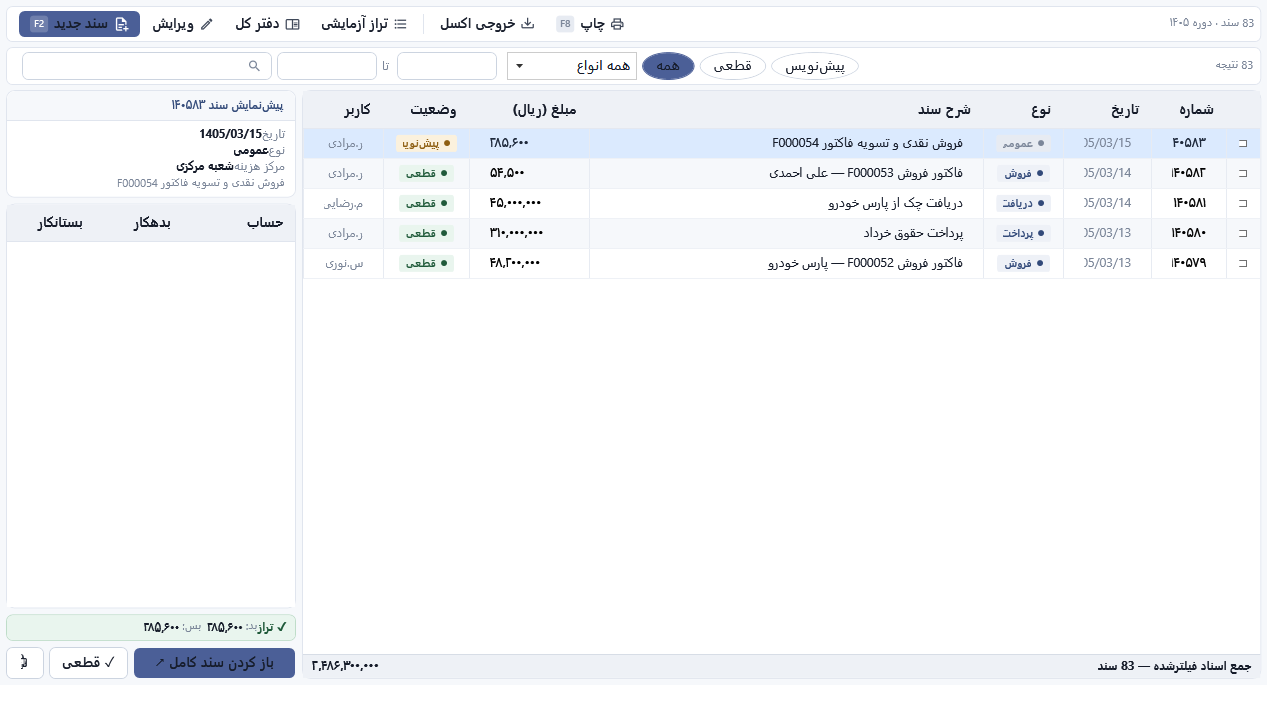
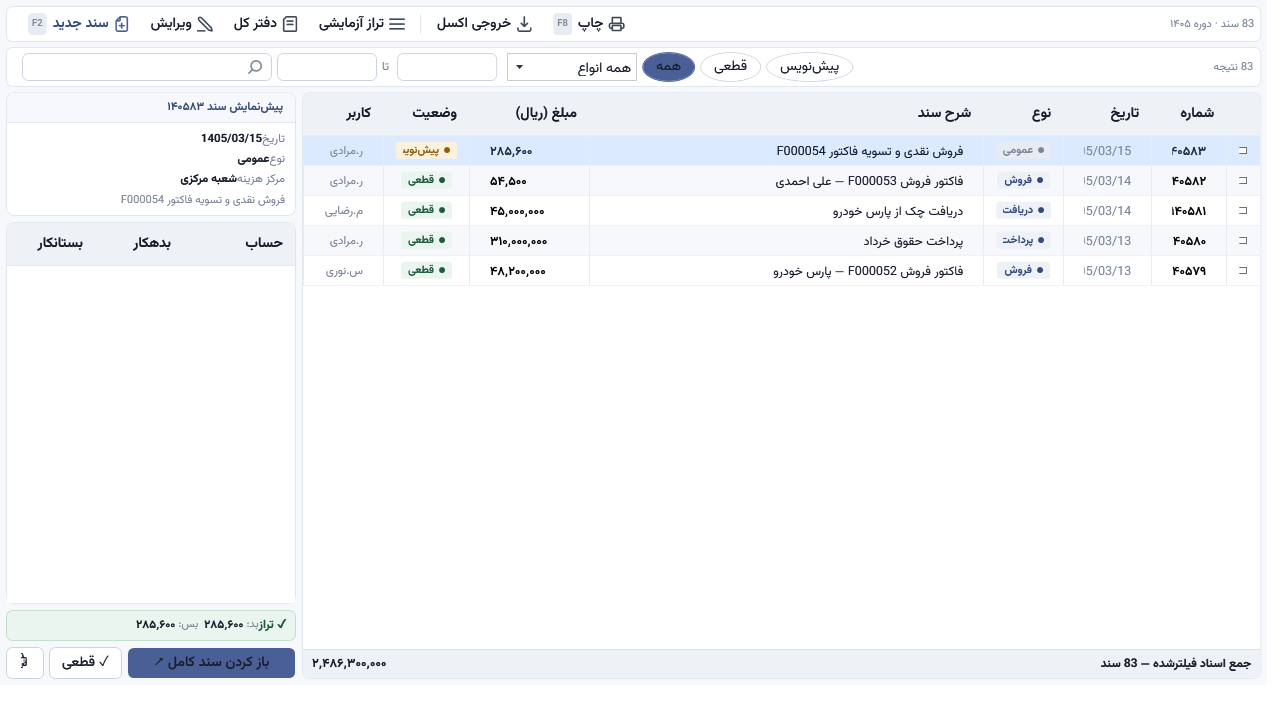
feat(ui): T2 — مهاجرتِ آیکونِ تولبارهای حسابداری/خزانه/گزارش از PackIcon به SVG (pc/C1)
۵ ویو (ثبت سند/اسناد/چک/نمودار حساب/گزارشهای مالی) + ۸ آیکونِ جدید در DesignIcons (Check/Copy/Swap/Close/Transfer/Undo/Template/Trash). رندر تأیید شد.

diff --git a/src/SamaHesab.WPF/Views/Accounting/VoucherEditView.xaml b/src/SamaHesab.WPF/Views/Accounting/VoucherEditView.xaml
@@ -103,23 +103,23 @@
         <Border Grid.Row="0" Background="White" BorderBrush="{StaticResource Line}" BorderThickness="0,0,0,1" Padding="8,6">
             <StackPanel Orientation="Horizontal">
                 <Button Style="{StaticResource TBtn}" Command="{Binding NewCommand}" Background="{StaticResource Blue600}" Foreground="White" BorderBrush="{StaticResource Blue600}">
-                    <StackPanel Orientation="Horizontal"><materialDesign:PackIcon Kind="FileDocumentPlusOutline" Width="15" Height="15" VerticalAlignment="Center" Margin="0,0,5,0"/><TextBlock Text="جدید"/><Border Style="{StaticResource Fk}" Background="#5E6FA8"><TextBlock Text="F2" FontSize="10.5" Foreground="White"/></Border></StackPanel>
+                    <StackPanel Orientation="Horizontal"><Path Data="{StaticResource IcFilePlus}" Style="{StaticResource ErpToolSvg}" Stroke="White" Margin="0,0,5,0"/><TextBlock Text="جدید"/><Border Style="{StaticResource Fk}" Background="#5E6FA8"><TextBlock Text="F2" FontSize="10.5" Foreground="White"/></Border></StackPanel>
                 </Button>
                 <Button Style="{StaticResource TBtn}" Command="{Binding SaveCommand}">
-                    <StackPanel Orientation="Horizontal"><materialDesign:PackIcon Kind="ContentSaveOutline" Width="15" Height="15" VerticalAlignment="Center" Margin="0,0,5,0"/><TextBlock Text="ذخیره"/><Border Style="{StaticResource Fk}"><TextBlock Text="F7" FontSize="10.5" Foreground="{StaticResource TextMuted}"/></Border></StackPanel>
+                    <StackPanel Orientation="Horizontal"><Path Data="{StaticResource IcSave}" Style="{StaticResource ErpToolSvg}" Margin="0,0,5,0"/><TextBlock Text="ذخیره"/><Border Style="{StaticResource Fk}"><TextBlock Text="F7" FontSize="10.5" Foreground="{StaticResource TextMuted}"/></Border></StackPanel>
                 </Button>
                 <Button Style="{StaticResource TBtn}" Command="{Binding PostCommand}" Background="#E8F5EC" BorderBrush="#A7D7B6"
                         IsEnabled="{Binding IsBalanced}" ToolTip="سند باید تراز باشد تا قطعی شود">
-                    <StackPanel Orientation="Horizontal"><materialDesign:PackIcon Kind="CheckCircleOutline" Width="15" Height="15" VerticalAlignment="Center" Margin="0,0,5,0" Foreground="#15803D"/><TextBlock Text="قطعیسازی" Foreground="#15803D"/><Border Style="{StaticResource Fk}" Background="#C9E9D2"><TextBlock Text="F9" FontSize="10.5" Foreground="#15803D"/></Border></StackPanel>
+                    <StackPanel Orientation="Horizontal"><Path Data="{StaticResource IcCheck}" Style="{StaticResource ErpToolSvg}" Stroke="#15803D" Margin="0,0,5,0"/><TextBlock Text="قطعیسازی" Foreground="#15803D"/><Border Style="{StaticResource Fk}" Background="#C9E9D2"><TextBlock Text="F9" FontSize="10.5" Foreground="#15803D"/></Border></StackPanel>
                 </Button>
                 <Border Width="1" Background="{StaticResource Line}" Margin="4,2"/>
-                <Button Style="{StaticResource TBtn}" Command="{Binding CopyCommand}"><StackPanel Orientation="Horizontal"><materialDesign:PackIcon Kind="ContentCopy" Width="15" Height="15" VerticalAlignment="Center" Margin="0,0,5,0"/><TextBlock Text="کپی سند"/></StackPanel></Button>
-                <Button Style="{StaticResource TBtn}" Command="{Binding ReverseCommand}"><StackPanel Orientation="Horizontal"><materialDesign:PackIcon Kind="SwapHorizontal" Width="15" Height="15" VerticalAlignment="Center" Margin="0,0,5,0"/><TextBlock Text="سند معکوس"/></StackPanel></Button>
-                <Button Style="{StaticResource TBtn}" Command="{Binding TemplatesCommand}" ToolTip="الگوها و اسنادِ تکرارشونده"><StackPanel Orientation="Horizontal"><materialDesign:PackIcon Kind="FileMultipleOutline" Width="15" Height="15" VerticalAlignment="Center" Margin="0,0,5,0"/><TextBlock Text="الگو / تکراری"/></StackPanel></Button>
+                <Button Style="{StaticResource TBtn}" Command="{Binding CopyCommand}"><StackPanel Orientation="Horizontal"><Path Data="{StaticResource IcCopy}" Style="{StaticResource ErpToolSvg}" Margin="0,0,5,0"/><TextBlock Text="کپی سند"/></StackPanel></Button>
+                <Button Style="{StaticResource TBtn}" Command="{Binding ReverseCommand}"><StackPanel Orientation="Horizontal"><Path Data="{StaticResource IcSwap}" Style="{StaticResource ErpToolSvg}" Margin="0,0,5,0"/><TextBlock Text="سند معکوس"/></StackPanel></Button>
+                <Button Style="{StaticResource TBtn}" Command="{Binding TemplatesCommand}" ToolTip="الگوها و اسنادِ تکرارشونده"><StackPanel Orientation="Horizontal"><Path Data="{StaticResource IcTemplate}" Style="{StaticResource ErpToolSvg}" Margin="0,0,5,0"/><TextBlock Text="الگو / تکراری"/></StackPanel></Button>
                 <Button Style="{StaticResource TBtn}" Command="{Binding PrintCommand}">
-                    <StackPanel Orientation="Horizontal"><materialDesign:PackIcon Kind="PrinterOutline" Width="15" Height="15" VerticalAlignment="Center" Margin="0,0,5,0"/><TextBlock Text="چاپ"/><Border Style="{StaticResource Fk}"><TextBlock Text="F8" FontSize="10.5" Foreground="{StaticResource TextMuted}"/></Border></StackPanel>
+                    <StackPanel Orientation="Horizontal"><Path Data="{StaticResource IcPrinter}" Style="{StaticResource ErpToolSvg}" Margin="0,0,5,0"/><TextBlock Text="چاپ"/><Border Style="{StaticResource Fk}"><TextBlock Text="F8" FontSize="10.5" Foreground="{StaticResource TextMuted}"/></Border></StackPanel>
                 </Button>
-                <Button Style="{StaticResource TBtn}" Command="{Binding CancelCommand}" Foreground="#B91C1C" BorderBrush="#E6BcBc"><StackPanel Orientation="Horizontal"><materialDesign:PackIcon Kind="CloseCircleOutline" Width="15" Height="15" VerticalAlignment="Center" Margin="0,0,5,0"/><TextBlock Text="انصراف"/></StackPanel></Button>
+                <Button Style="{StaticResource TBtn}" Command="{Binding CancelCommand}" Foreground="#B91C1C" BorderBrush="#E6BcBc"><StackPanel Orientation="Horizontal"><Path Data="{StaticResource IcClose}" Style="{StaticResource ErpToolSvg}" Stroke="#B91C1C" Margin="0,0,5,0"/><TextBlock Text="انصراف"/></StackPanel></Button>
             </StackPanel>
         </Border>
 

diff --git a/src/SamaHesab.WPF/Views/Accounting/VoucherListView.xaml b/src/SamaHesab.WPF/Views/Accounting/VoucherListView.xaml
@@ -56,26 +56,26 @@
                 <!-- سند جدید (primary) — طبق طرح: دکمهٔ ghostِ تولبار با متن/آیکونِ آبی (نه آبیِ پُر) -->
                 <Button DockPanel.Dock="Right" Style="{StaticResource TBtn}" Margin="0,0,5,0" Command="{Binding NewVoucherCommand}">
                     <StackPanel Orientation="Horizontal">
-                        <materialDesign:PackIcon Kind="FileDocumentPlusOutline" Width="16" Height="16" VerticalAlignment="Center" Foreground="{StaticResource ErpBlue600}"/>
+                        <Path Data="{StaticResource IcFilePlus}" Style="{StaticResource ErpToolSvg}" Stroke="{StaticResource ErpBlue600}"/>
                         <TextBlock Text="سند جدید" VerticalAlignment="Center" Margin="5,0,0,0" FontWeight="SemiBold" Foreground="{StaticResource ErpBlue700}"/>
                         <Border CornerRadius="4" Background="{StaticResource ErpGray150}" Padding="4,0" Margin="6,0,0,0"><TextBlock Text="F2" FontSize="9.5" Foreground="{StaticResource ErpTextMuted}" VerticalAlignment="Center"/></Border>
                     </StackPanel>
                 </Button>
                 <Button DockPanel.Dock="Right" Style="{StaticResource TBtn}" Command="{Binding EditVoucherCommand}">
-                    <StackPanel Orientation="Horizontal"><materialDesign:PackIcon Kind="PencilOutline" Width="15" Height="15" VerticalAlignment="Center"/><TextBlock Text="ویرایش" VerticalAlignment="Center" Margin="5,0,0,0"/></StackPanel>
+                    <StackPanel Orientation="Horizontal"><Path Data="{StaticResource IcPencil}" Style="{StaticResource ErpToolSvg}"/><TextBlock Text="ویرایش" VerticalAlignment="Center" Margin="5,0,0,0"/></StackPanel>
                 </Button>
                 <Button DockPanel.Dock="Right" Style="{StaticResource TBtn}" Command="{Binding LedgerCommand}">
-                    <StackPanel Orientation="Horizontal"><materialDesign:PackIcon Kind="BookOpenOutline" Width="15" Height="15" VerticalAlignment="Center"/><TextBlock Text="دفتر کل" VerticalAlignment="Center" Margin="5,0,0,0"/></StackPanel>
+                    <StackPanel Orientation="Horizontal"><Path Data="{StaticResource IcBook}" Style="{StaticResource ErpToolSvg}"/><TextBlock Text="دفتر کل" VerticalAlignment="Center" Margin="5,0,0,0"/></StackPanel>
                 </Button>
                 <Button DockPanel.Dock="Right" Style="{StaticResource TBtn}" Command="{Binding TrialBalanceCommand}">
-                    <StackPanel Orientation="Horizontal"><materialDesign:PackIcon Kind="FormatListBulleted" Width="15" Height="15" VerticalAlignment="Center"/><TextBlock Text="تراز آزمایشی" VerticalAlignment="Center" Margin="5,0,0,0"/></StackPanel>
+                    <StackPanel Orientation="Horizontal"><Path Data="{StaticResource IcLines}" Style="{StaticResource ErpToolSvg}"/><TextBlock Text="تراز آزمایشی" VerticalAlignment="Center" Margin="5,0,0,0"/></StackPanel>
                 </Button>
                 <Rectangle DockPanel.Dock="Right" Width="1" Fill="{StaticResource ErpBorder}" Margin="5,4"/>
                 <Button DockPanel.Dock="Right" Style="{StaticResource TBtn}" Command="{Binding ExportCommand}">
-                    <StackPanel Orientation="Horizontal"><materialDesign:PackIcon Kind="TrayArrowDown" Width="15" Height="15" VerticalAlignment="Center"/><TextBlock Text="خروجی اکسل" VerticalAlignment="Center" Margin="5,0,0,0"/></StackPanel>
+                    <StackPanel Orientation="Horizontal"><Path Data="{StaticResource IcDownload}" Style="{StaticResource ErpToolSvg}"/><TextBlock Text="خروجی اکسل" VerticalAlignment="Center" Margin="5,0,0,0"/></StackPanel>
                 </Button>
                 <Button DockPanel.Dock="Right" Style="{StaticResource TBtn}" Command="{Binding PrintVoucherCommand}">
-                    <StackPanel Orientation="Horizontal"><materialDesign:PackIcon Kind="PrinterOutline" Width="15" Height="15" VerticalAlignment="Center"/><TextBlock Text="چاپ" VerticalAlignment="Center" Margin="5,0,0,0"/><Border CornerRadius="3" Background="{StaticResource ErpGray150}" Padding="4,0" Margin="6,0,0,0"><TextBlock Text="F8" FontSize="9.5" Foreground="{StaticResource ErpTextMuted}" VerticalAlignment="Center"/></Border></StackPanel>
+                    <StackPanel Orientation="Horizontal"><Path Data="{StaticResource IcPrinter}" Style="{StaticResource ErpToolSvg}"/><TextBlock Text="چاپ" VerticalAlignment="Center" Margin="5,0,0,0"/><Border CornerRadius="3" Background="{StaticResource ErpGray150}" Padding="4,0" Margin="6,0,0,0"><TextBlock Text="F8" FontSize="9.5" Foreground="{StaticResource ErpTextMuted}" VerticalAlignment="Center"/></Border></StackPanel>
                 </Button>
                 <TextBlock DockPanel.Dock="Left" HorizontalAlignment="Left" VerticalAlignment="Center" Foreground="{StaticResource ErpTextMuted}" FontSize="11"
                            Text="{Binding TotalCount, StringFormat='{}{0} سند · دوره ۱۴۰۵'}"/>
@@ -90,7 +90,7 @@
                         CornerRadius="6" Height="28" Width="250" Margin="0,0,8,0">
                     <Grid>
                         <Grid.ColumnDefinitions><ColumnDefinition Width="Auto"/><ColumnDefinition Width="*"/></Grid.ColumnDefinitions>
-                        <materialDesign:PackIcon Grid.Column="0" Kind="Magnify" Width="15" Height="15" Margin="9,0,0,0" VerticalAlignment="Center" Foreground="{StaticResource ErpTextMuted}"/>
+                        <Path Grid.Column="0" Data="{StaticResource IcSearch}" Style="{StaticResource ErpToolSvg}" Stroke="{StaticResource ErpTextMuted}" Width="14" Height="14" Margin="9,0,0,0"/>
                         <TextBox Grid.Column="1" Text="{Binding SearchText}" Background="Transparent" BorderThickness="0" VerticalContentAlignment="Center" Padding="6,0"
                                  materialDesign:HintAssist.Hint="جستجوی شماره، شرح، مبلغ…" FontSize="12.5">
                             <TextBox.InputBindings><KeyBinding Key="Return" Command="{Binding SearchCommand}"/></TextBox.InputBindings>

diff --git a/src/SamaHesab.WPF/Views/Accounting/ChequeListView.xaml b/src/SamaHesab.WPF/Views/Accounting/ChequeListView.xaml
@@ -125,17 +125,17 @@
             <DockPanel>
                 <StackPanel Orientation="Horizontal">
                     <Button Style="{StaticResource TBtn}" Command="{Binding NewChequeCommand}" Background="{StaticResource Blue600}" Foreground="White" BorderBrush="{StaticResource Blue600}">
-                        <StackPanel Orientation="Horizontal"><materialDesign:PackIcon Kind="PlusBoxOutline" Width="16" Height="16" VerticalAlignment="Center"/><TextBlock Text="چک جدید" Margin="5,0,0,0"/><Border Background="#5E6FA8" CornerRadius="3" Padding="4,0" Margin="6,0,0,0"><TextBlock Text="F2" FontSize="10.5" Foreground="White"/></Border></StackPanel>
+                        <StackPanel Orientation="Horizontal"><Path Data="{StaticResource IcFilePlus}" Style="{StaticResource ErpToolSvg}" Stroke="White"/><TextBlock Text="چک جدید" Margin="5,0,0,0"/><Border Background="#5E6FA8" CornerRadius="3" Padding="4,0" Margin="6,0,0,0"><TextBlock Text="F2" FontSize="10.5" Foreground="White"/></Border></StackPanel>
                     </Button>
                     <Border Width="1" Background="{StaticResource Line}" Margin="4,2"/>
                     <Button Style="{StaticResource TBtn}" Command="{Binding ClearChequeCommand}" Background="#E8F5EC" BorderBrush="#A7D7B6">
-                        <StackPanel Orientation="Horizontal"><materialDesign:PackIcon Kind="CheckCircleOutline" Width="16" Height="16" VerticalAlignment="Center" Foreground="#15803D"/><TextBlock Text="وصول" Margin="5,0,0,0" Foreground="#15803D"/></StackPanel>
+                        <StackPanel Orientation="Horizontal"><Path Data="{StaticResource IcCheck}" Style="{StaticResource ErpToolSvg}" Stroke="#15803D"/><TextBlock Text="وصول" Margin="5,0,0,0" Foreground="#15803D"/></StackPanel>
                     </Button>
                     <Button Style="{StaticResource TBtn}" Command="{Binding TransferChequeCommand}">
-                        <StackPanel Orientation="Horizontal"><materialDesign:PackIcon Kind="BankTransferOut" Width="16" Height="16" VerticalAlignment="Center"/><TextBlock Text="واگذاری به بانک" Margin="5,0,0,0"/></StackPanel>
+                        <StackPanel Orientation="Horizontal"><Path Data="{StaticResource IcTransfer}" Style="{StaticResource ErpToolSvg}"/><TextBlock Text="واگذاری به بانک" Margin="5,0,0,0"/></StackPanel>
                     </Button>
                     <Button Style="{StaticResource TBtn}" Command="{Binding ReturnChequeCommand}" Foreground="#B91C1C" BorderBrush="#E6BCBC">
-                        <StackPanel Orientation="Horizontal"><materialDesign:PackIcon Kind="CloseCircleOutline" Width="16" Height="16" VerticalAlignment="Center" Foreground="#B91C1C"/><TextBlock Text="برگشت چک" Margin="5,0,0,0"/></StackPanel>
+                        <StackPanel Orientation="Horizontal"><Path Data="{StaticResource IcUndo}" Style="{StaticResource ErpToolSvg}" Stroke="#B91C1C"/><TextBlock Text="برگشت چک" Margin="5,0,0,0"/></StackPanel>
                     </Button>
                 </StackPanel>
                 <!-- خلاصهٔ سررسیدِ هفتهٔ جاری -->
@@ -198,7 +198,7 @@
                     <RadioButton Style="{StaticResource TypeChip}" Content="پرداختنی" GroupName="ctype"
                                  Command="{Binding SelectTypeCommand}" CommandParameter="پرداختی"/>
                     <Border Width="1" Background="{StaticResource Line}" Margin="6,2"/>
-                    <materialDesign:PackIcon Kind="Magnify" Width="16" Height="16" VerticalAlignment="Center" Foreground="{StaticResource TextMuted}" Margin="0,0,4,0"/>
+                    <Path Data="{StaticResource IcSearch}" Style="{StaticResource ErpToolSvg}" Stroke="{StaticResource TextMuted}" Width="14" Height="14" Margin="0,0,4,0"/>
                     <TextBox Style="{StaticResource InputC}" Width="260" Text="{Binding SearchText, UpdateSourceTrigger=PropertyChanged}"
                              VerticalAlignment="Center"
                              materialDesign:HintAssist.Hint="جستجوی شماره چک / صادرکننده / بانک…"/>

diff --git a/src/SamaHesab.WPF/Views/Accounting/ChartOfAccountsView.xaml b/src/SamaHesab.WPF/Views/Accounting/ChartOfAccountsView.xaml
@@ -18,18 +18,18 @@
                 <Grid.ColumnDefinitions><ColumnDefinition Width="Auto"/><ColumnDefinition Width="*"/></Grid.ColumnDefinitions>
                 <StackPanel Grid.Column="0" Orientation="Horizontal" VerticalAlignment="Center">
                     <Button Style="{StaticResource ErpToolButton}" Command="{Binding AddAccountCommand}">
-                        <StackPanel><materialDesign:PackIcon Kind="PlusBoxOutline" Width="18" Height="18" HorizontalAlignment="Center" Foreground="{DynamicResource PrimaryAccent}"/><TextBlock Text="حساب جدید" TextAlignment="Center"/></StackPanel>
+                        <StackPanel><Path Data="{StaticResource IcFilePlus}" Style="{StaticResource ErpToolSvg}" Width="18" Height="18" HorizontalAlignment="Center" Stroke="{DynamicResource PrimaryAccent}"/><TextBlock Text="حساب جدید" TextAlignment="Center"/></StackPanel>
                     </Button>
                     <Button Style="{StaticResource ErpToolButton}" Command="{Binding EditAccountCommand}">
-                        <StackPanel><materialDesign:PackIcon Kind="PencilOutline" Width="18" Height="18" HorizontalAlignment="Center" Foreground="{DynamicResource WarningColor}"/><TextBlock Text="ویرایش" TextAlignment="Center"/></StackPanel>
+                        <StackPanel><Path Data="{StaticResource IcPencil}" Style="{StaticResource ErpToolSvg}" Width="18" Height="18" HorizontalAlignment="Center" Stroke="{DynamicResource WarningColor}"/><TextBlock Text="ویرایش" TextAlignment="Center"/></StackPanel>
                     </Button>
                     <Button Style="{StaticResource ErpToolButton}" Command="{Binding DeleteAccountCommand}">
-                        <StackPanel><materialDesign:PackIcon Kind="DeleteOutline" Width="18" Height="18" HorizontalAlignment="Center" Foreground="{DynamicResource DangerColor}"/><TextBlock Text="حذف" TextAlignment="Center"/></StackPanel>
+                        <StackPanel><Path Data="{StaticResource IcTrash}" Style="{StaticResource ErpToolSvg}" Width="18" Height="18" HorizontalAlignment="Center" Stroke="{DynamicResource DangerColor}"/><TextBlock Text="حذف" TextAlignment="Center"/></StackPanel>
                     </Button>
                     <Rectangle Width="1" Fill="{DynamicResource BorderColor}" Margin="6,6"/>
                 </StackPanel>
                 <StackPanel Grid.Column="1" Orientation="Horizontal" VerticalAlignment="Center" HorizontalAlignment="Right">
-                    <materialDesign:PackIcon Kind="Magnify" Width="18" Height="18" VerticalAlignment="Center" Foreground="{DynamicResource SecondaryText}"/>
+                    <Path Data="{StaticResource IcSearch}" Style="{StaticResource ErpToolSvg}" Stroke="{DynamicResource SecondaryText}"/>
                     <TextBox Text="{Binding SearchText, UpdateSourceTrigger=PropertyChanged}" Width="240" Margin="6,0" VerticalAlignment="Center"/>
                 </StackPanel>
             </Grid>

diff --git a/src/SamaHesab.WPF/Views/Reports/FinancialReportsView.xaml b/src/SamaHesab.WPF/Views/Reports/FinancialReportsView.xaml
@@ -15,7 +15,7 @@
         <!-- ═══ Toolbar / filters ═══ -->
         <Border Grid.Row="0" Style="{StaticResource ErpToolbar}">
             <StackPanel Orientation="Horizontal" VerticalAlignment="Center">
-                <materialDesign:PackIcon Kind="FileChartOutline" Width="20" Height="20" VerticalAlignment="Center" Foreground="{DynamicResource PrimaryAccent}"/>
+                <Path Data="{StaticResource IcReports}" Style="{StaticResource ErpToolSvg}" Width="20" Height="20" Stroke="{DynamicResource PrimaryAccent}"/>
                 <TextBlock Text="گزارش" Style="{StaticResource ErpInlineLabel}" Margin="6,0"/>
                 <ComboBox Style="{StaticResource BaseComboBox}" Width="170" Height="30"
                           ItemsSource="{Binding ReportTypes}" SelectedItem="{Binding SelectedReportType}"/>
@@ -50,18 +50,18 @@
                           SelectedValue="{Binding SelectedBranchId}"/>
                 <Button Style="{StaticResource PrimaryButton}" Height="30" Padding="16,0" Margin="12,0,0,0" Command="{Binding RunCommand}">
                     <StackPanel Orientation="Horizontal">
-                        <materialDesign:PackIcon Kind="Magnify" Width="16" Height="16" VerticalAlignment="Center"/>
+                        <Path Data="{StaticResource IcSearch}" Style="{StaticResource ErpToolSvg}"/>
                         <TextBlock Text="نمایش" Margin="5,0,0,0" VerticalAlignment="Center"/>
                     </StackPanel>
                 </Button>
                 <Button Style="{StaticResource SecondaryButton}" Height="30" Padding="12,0" Margin="6,0,0,0" Command="{Binding ExportCsvCommand}" ToolTip="خروجی اکسل (CSV)">
                     <StackPanel Orientation="Horizontal">
-                        <materialDesign:PackIcon Kind="FileExcelOutline" Width="16" Height="16" VerticalAlignment="Center"/>
+                        <Path Data="{StaticResource IcDownload}" Style="{StaticResource ErpToolSvg}"/>
                         <TextBlock Text="اکسل" Margin="5,0,0,0" VerticalAlignment="Center"/>
                     </StackPanel>
                 </Button>
                 <Button Style="{StaticResource SecondaryButton}" Height="30" Padding="12,0" Margin="6,0,0,0" Command="{Binding PrintCommand}" ToolTip="چاپ / خروجی PDF">
-                    <materialDesign:PackIcon Kind="PrinterOutline" Width="16" Height="16"/>
+                    <Path Data="{StaticResource IcPrinter}" Style="{StaticResource ErpToolSvg}"/>
                 </Button>
             </StackPanel>
         </Border>

diff --git a/src/SamaHesab.WPF/Assets/Themes/DesignIcons.xaml b/src/SamaHesab.WPF/Assets/Themes/DesignIcons.xaml
@@ -68,4 +68,14 @@
     <PathGeometry x:Key="IcDownload" Figures="M12,3 V15 m0,0 4,-4 m-4,4 -4,-4 M4,17 V19 a2,2 0 0 0 2,2 H18 a2,2 0 0 0 2,-2 V17"/>
     <PathGeometry x:Key="IcPrinter" Figures="M6,9 V3 H18 V9 M6,18 H4 a2,2 0 0 1 -2,-2 V13 a2,2 0 0 1 2,-2 H20 a2,2 0 0 1 2,2 V16 a2,2 0 0 1 -2,2 H18 M6,14 H18 V21 H6 z"/>
     <PathGeometry x:Key="IcSave" Figures="M19,21 H5 a2,2 0 0 1 -2,-2 V5 a2,2 0 0 1 2,-2 H16 L21,8 V19 a2,2 0 0 1 -2,2 z M17,21 V13 H7 V21 M7,3 V8 H15"/>
+
+    <!-- ── تولبارِ حسابداری/خزانه/چک (افزودهٔ C1 — T2) ── -->
+    <PathGeometry x:Key="IcCheck"    Figures="M22,11.1 V12 a10,10 0 1 1 -5.9,-9.1 M22,4 L12,14.01 L9,11"/>
+    <PathGeometry x:Key="IcCopy"     Figures="M9,9 H20 a1,1 0 0 1 1,1 V21 a1,1 0 0 1 -1,1 H9 a1,1 0 0 1 -1,-1 V10 a1,1 0 0 1 1,-1 z M5,15 H4 a1,1 0 0 1 -1,-1 V3 a1,1 0 0 1 1,-1 H15 a1,1 0 0 1 1,1 V5"/>
+    <PathGeometry x:Key="IcSwap"     Figures="M16,3 L21,7.5 L16,12 M21,7.5 H4 M8,21 L3,16.5 L8,12 M3,16.5 H20"/>
+    <PathGeometry x:Key="IcClose"    Figures="M18,6 L6,18 M6,6 L18,18"/>
+    <PathGeometry x:Key="IcTransfer" Figures="M4,12 H20 M14,6 L20,12 L14,18"/>
+    <PathGeometry x:Key="IcUndo"     Figures="M9,14 L4,9 L9,4 M4,9 H15 a5,5 0 0 1 0,10 H11"/>
+    <PathGeometry x:Key="IcTemplate" Figures="M8,2 H16 a2,2 0 0 1 2,2 V20 a2,2 0 0 1 -2,2 H8 a2,2 0 0 1 -2,-2 V4 a2,2 0 0 1 2,-2 z M9,7 H15 M9,11 H15 M9,15 H13"/>
+    <PathGeometry x:Key="IcTrash"    Figures="M3,6 H21 M8,6 V4 a2,2 0 0 1 2,-2 H14 a2,2 0 0 1 2,2 V6 m3,0 V20 a2,2 0 0 1 -2,2 H7 a2,2 0 0 1 -2,-2 V6 M10,11 V17 M14,11 V17"/>
 </ResourceDictionary>
